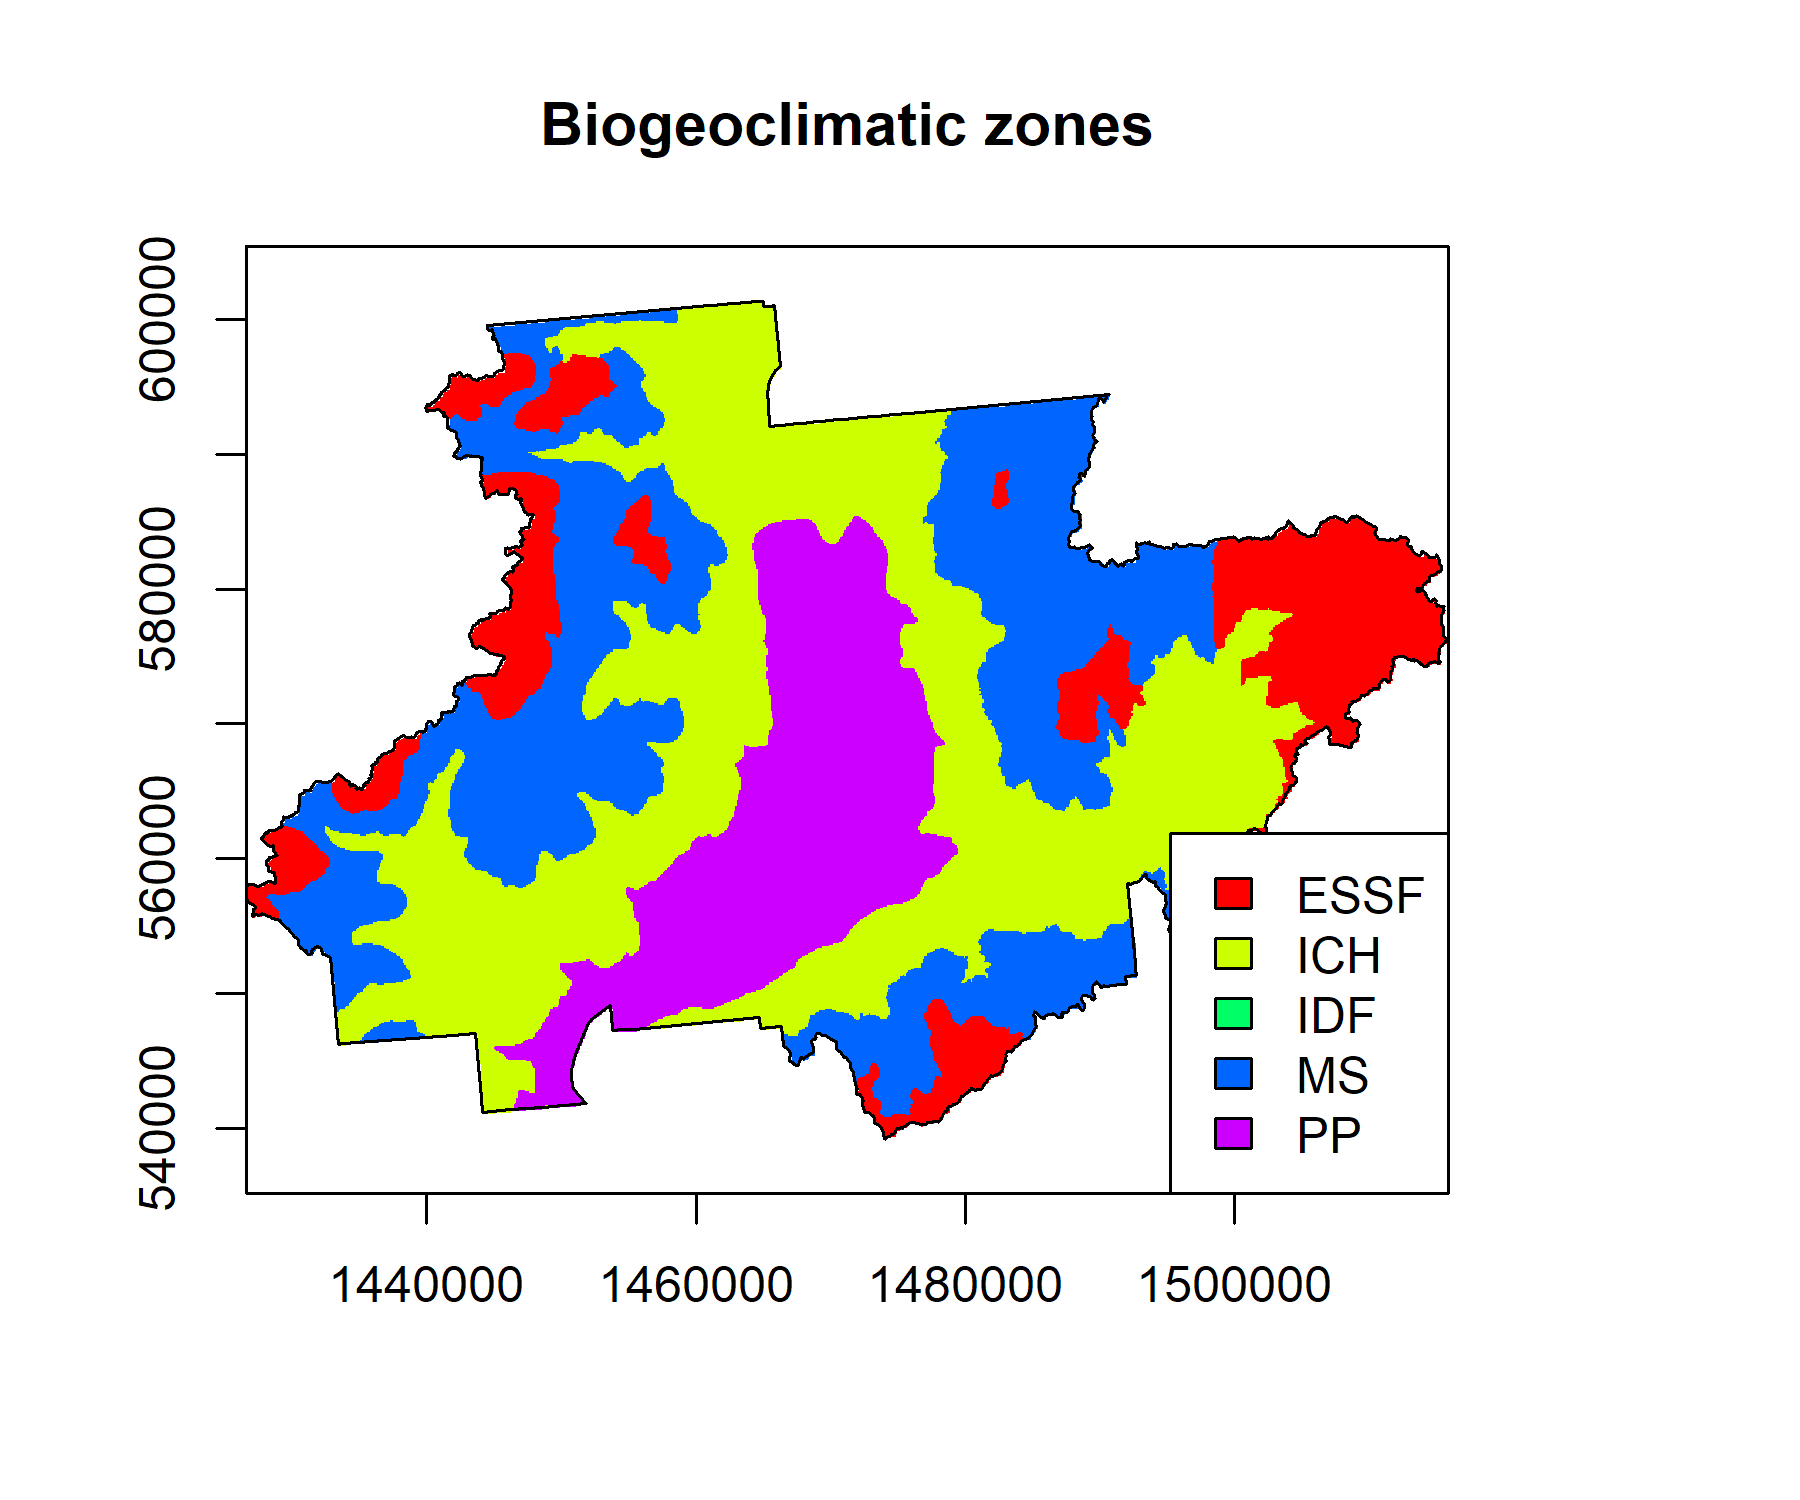
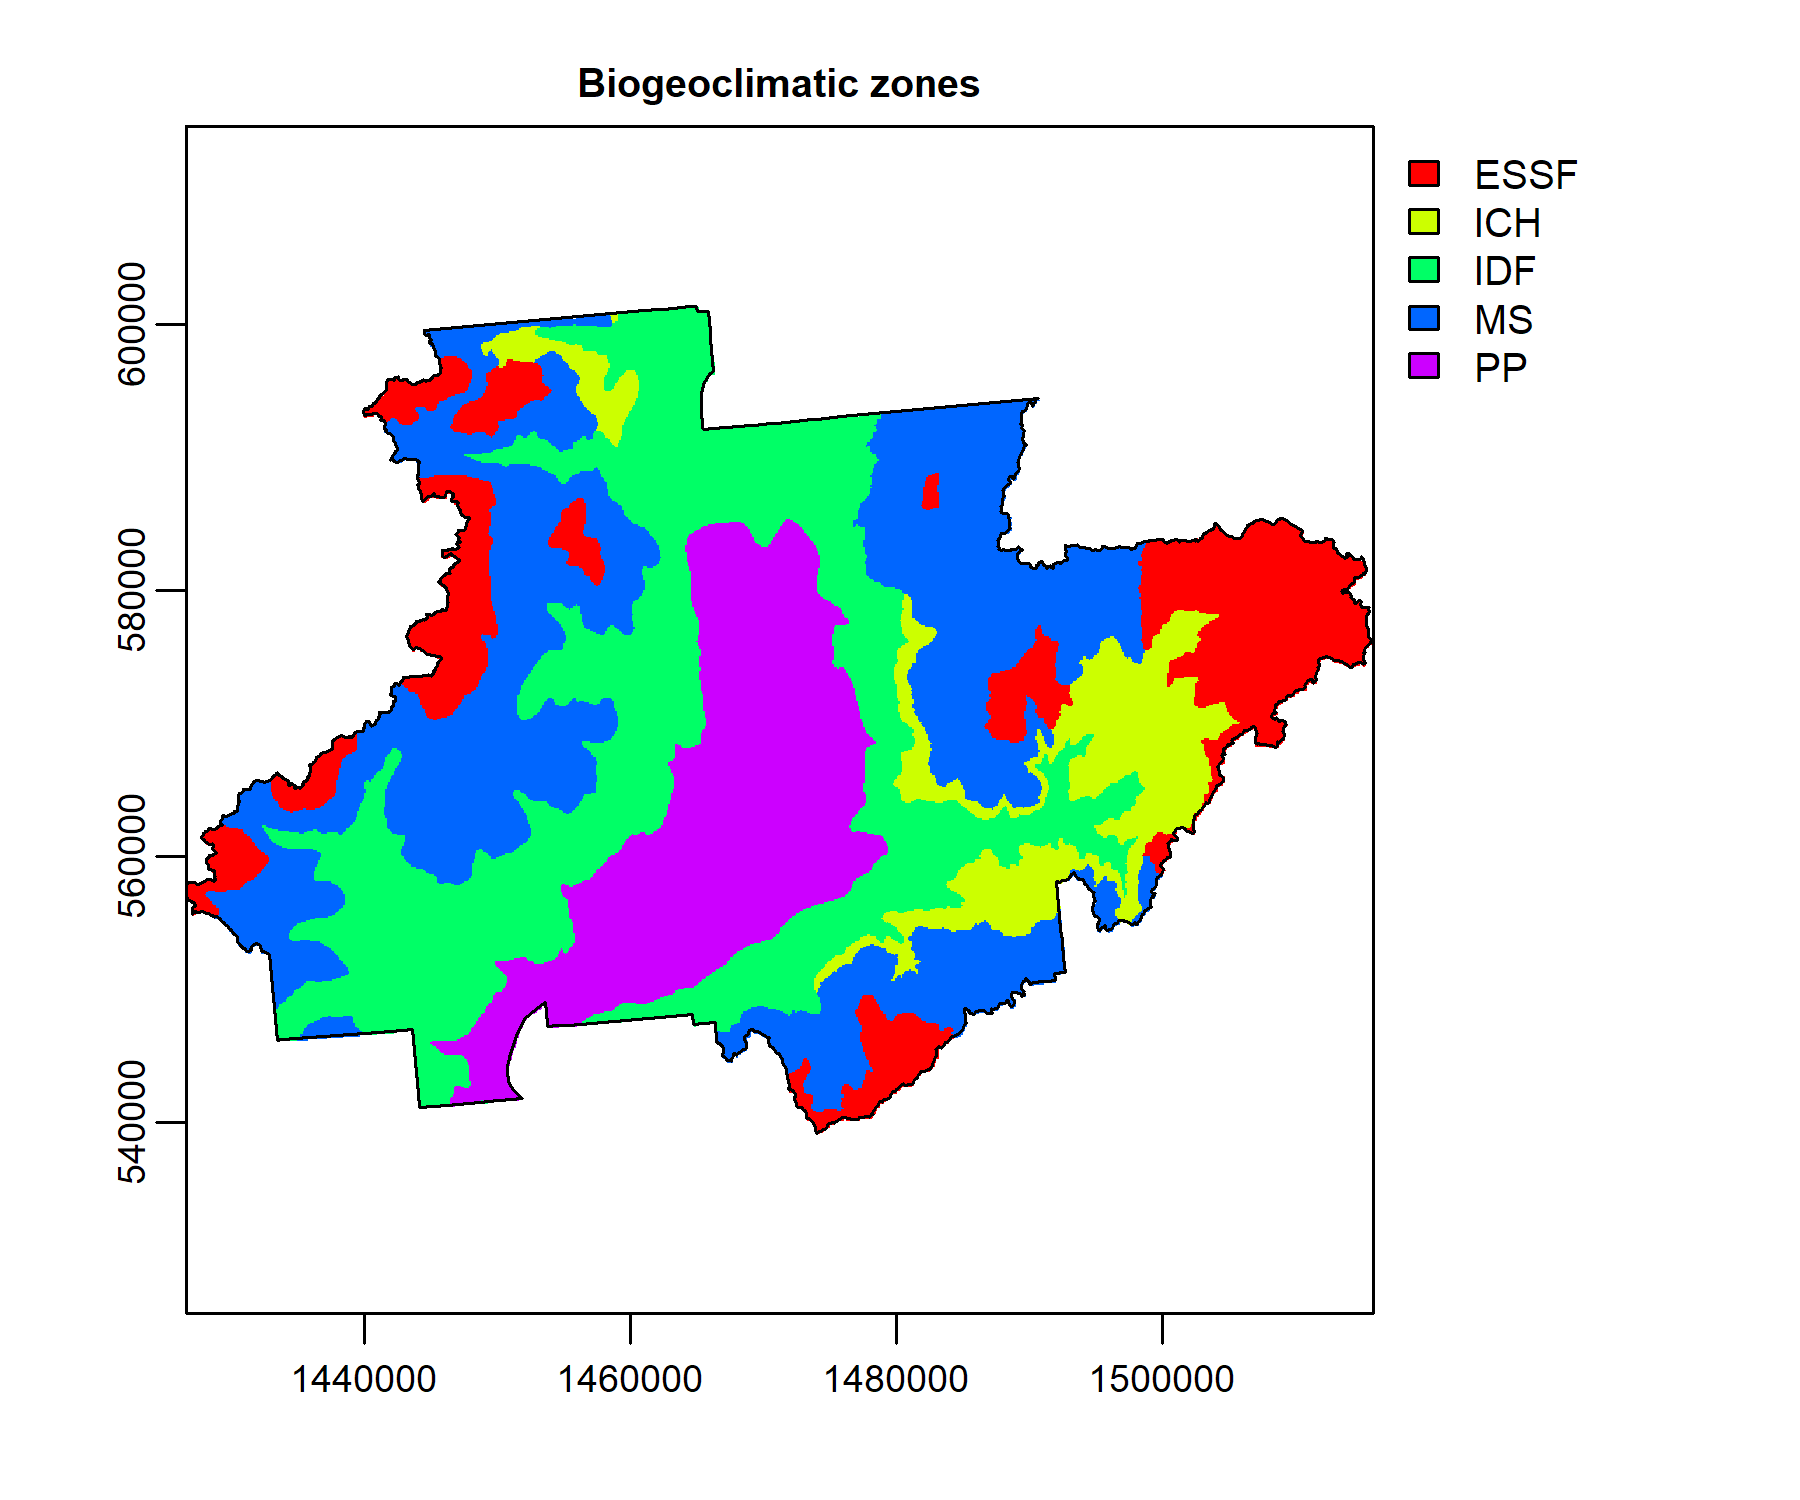
updated docs to reflect change to terra

diff --git a/vignette_intro.md b/vignette_intro.md
@@ -24,8 +24,8 @@ to define a study region (but it’s not a requirement of the package).
 ``` r
 library(sf)
 #> Linking to GEOS 3.9.1, GDAL 3.2.1, PROJ 7.2.1
-library(raster)
-#> Loading required package: sp
+library(terra)
+#> terra version 1.4.22
 library(bcmaps)
 library(rasterbc)
 ```
@@ -51,7 +51,7 @@ that `rasterbc` should write files to the supplied directory, and warn
 if this directory contains any existing files/folders. Note that if the
 storage directory has existing files with names matching those fetched
 by the `rasterbc` package, those data will be overwritten by calls of
-the form `raster::getdata_bc(..., force.dl=TRUE)` (the default is
+the form `getdata_bc(..., force.dl=TRUE)` (the default is
 `force.dl=FALSE`).
 
 In future sessions, users can set `quiet=TRUE` to skip the interactive
@@ -61,7 +61,7 @@ This path string is stored as an R option. View it using:
 
 ``` r
 datadir_bc()
-#> current data storage path: C:/Users/deank/AppData/Local/Temp/Rtmp6VWv6u/rasterbc_data
+#> current data storage path: C:/Users/deank/AppData/Local/Temp/RtmpOYLzGn/rasterbc_data
 ```
 
 Depending on the geographical extent of interest and the number
@@ -148,16 +148,16 @@ fetch them using the command:
 
 ``` r
 getdata_bc(geo=example.sf, collection='dem', varname='dem')
-#> [dem]:[dem] downloading 3 block(s) to: C:/Users/deank/AppData/Local/Temp/Rtmp6VWv6u/rasterbc_data/dem 
+#> [dem]:[dem] downloading 3 block(s) to: C:/Users/deank/AppData/Local/Temp/RtmpOYLzGn/rasterbc_data/dem 
 #>   |                                                                              |                                                                      |   0%  |                                                                              |=======================                                               |  33%
 #> downloading to: dem/blocks/dem_092H.tif 
 #>   |                                                                              |===============================================                       |  67%
 #> downloading to: dem/blocks/dem_082E.tif 
 #>   |                                                                              |======================================================================| 100%
 #> downloading to: dem/blocks/dem_082L.tif
-#> [1] "C:/Users/deank/AppData/Local/Temp/Rtmp6VWv6u/rasterbc_data/dem/blocks/dem_092H.tif"
-#> [2] "C:/Users/deank/AppData/Local/Temp/Rtmp6VWv6u/rasterbc_data/dem/blocks/dem_082E.tif"
-#> [3] "C:/Users/deank/AppData/Local/Temp/Rtmp6VWv6u/rasterbc_data/dem/blocks/dem_082L.tif"
+#> [1] "C:/Users/deank/AppData/Local/Temp/RtmpOYLzGn/rasterbc_data/dem/blocks/dem_092H.tif"
+#> [2] "C:/Users/deank/AppData/Local/Temp/RtmpOYLzGn/rasterbc_data/dem/blocks/dem_082E.tif"
+#> [3] "C:/Users/deank/AppData/Local/Temp/RtmpOYLzGn/rasterbc_data/dem/blocks/dem_082L.tif"
 ```
 
 You should see progress bars for a series of three downloads, and once
@@ -169,27 +169,28 @@ will be detected, and the download skipped. *eg.* repeat the call…
 ``` r
 getdata_bc(geo=example.sf, collection='dem', varname='dem')
 #> all 3 block(s) found in local data storage. Nothing to download
-#> [1] "C:/Users/deank/AppData/Local/Temp/Rtmp6VWv6u/rasterbc_data/dem/blocks/dem_092H.tif"
-#> [2] "C:/Users/deank/AppData/Local/Temp/Rtmp6VWv6u/rasterbc_data/dem/blocks/dem_082E.tif"
-#> [3] "C:/Users/deank/AppData/Local/Temp/Rtmp6VWv6u/rasterbc_data/dem/blocks/dem_082L.tif"
+#> [1] "C:/Users/deank/AppData/Local/Temp/RtmpOYLzGn/rasterbc_data/dem/blocks/dem_092H.tif"
+#> [2] "C:/Users/deank/AppData/Local/Temp/RtmpOYLzGn/rasterbc_data/dem/blocks/dem_082E.tif"
+#> [3] "C:/Users/deank/AppData/Local/Temp/RtmpOYLzGn/rasterbc_data/dem/blocks/dem_082L.tif"
 ```
 
 … and nothing happens, because the data are there already. Verify by
-loading one of the files as `RasterLayer`:
+loading one of the files as `SpatRaster`:
 
 ``` r
 tif.path = file.path(datadir_bc(), 'dem/blocks/dem_092H.tif')
-#> current data storage path: C:/Users/deank/AppData/Local/Temp/Rtmp6VWv6u/rasterbc_data
-example.raster = raster(tif.path)
+#> current data storage path: C:/Users/deank/AppData/Local/Temp/RtmpOYLzGn/rasterbc_data
+example.raster = terra::rast(tif.path)
 print(example.raster)
-#> class      : RasterLayer 
-#> dimensions : 1212, 1525, 1848300  (nrow, ncol, ncell)
-#> resolution : 100, 100  (x, y)
-#> extent     : 1286588, 1439088, 450888, 572088  (xmin, xmax, ymin, ymax)
-#> crs        : +proj=aea +lat_0=45 +lon_0=-126 +lat_1=50 +lat_2=58.5 +x_0=1000000 +y_0=0 +datum=NAD83 +units=m +no_defs 
-#> source     : dem_092H.tif 
-#> names      : dem_092H 
-#> values     : 7.653875, 2608.961  (min, max)
+#> class       : SpatRaster 
+#> dimensions  : 1212, 1525, 1  (nrow, ncol, nlyr)
+#> resolution  : 100, 100  (x, y)
+#> extent      : 1286588, 1439088, 450888, 572088  (xmin, xmax, ymin, ymax)
+#> coord. ref. : +proj=aea +lat_0=45 +lon_0=-126 +lat_1=50 +lat_2=58.5 +x_0=1000000 +y_0=0 +datum=NAD83 +units=m +no_defs 
+#> source      : dem_092H.tif 
+#> name        : dem_092H 
+#> min value   : 7.653875 
+#> max value   : 2608.961
 plot(example.raster, main='elevation (metres)')
 ```
 
@@ -201,21 +202,22 @@ To display the elevation data for the entire district, we need to
 combine the three blocks downloaded earlier. This can be done using
 `opendata_bc`, which loads all required blocks, merges them into a
 single layer, crops and masks as needed, and then loads into memory the
-returned `RasterLayer` object:
+returned `SpatRaster` object:
 
 ``` r
 example.tif = opendata_bc(example.sf, collection='dem', varname='dem')
 #> creating mosaic of 3 block(s)
 #> clipping layer...masking layer...done
 print(example.tif)
-#> class      : RasterLayer 
-#> dimensions : 622, 893, 555446  (nrow, ncol, ncell)
-#> resolution : 100, 100  (x, y)
-#> extent     : 1426588, 1515888, 539188, 601388  (xmin, xmax, ymin, ymax)
-#> crs        : +proj=aea +lat_0=45 +lon_0=-126 +lat_1=50 +lat_2=58.5 +x_0=1000000 +y_0=0 +datum=NAD83 +units=m +no_defs 
-#> source     : memory
-#> names      : dem 
-#> values     : 340.43, 2153.29  (min, max)
+#> class       : SpatRaster 
+#> dimensions  : 622, 893, 1  (nrow, ncol, nlyr)
+#> resolution  : 100, 100  (x, y)
+#> extent      : 1426588, 1515888, 539188, 601388  (xmin, xmax, ymin, ymax)
+#> coord. ref. : +proj=aea +lat_0=45 +lon_0=-126 +lat_1=50 +lat_2=58.5 +x_0=1000000 +y_0=0 +datum=NAD83 +units=m +no_defs 
+#> source      : memory 
+#> name        :     dem 
+#> min value   :  340.43 
+#> max value   : 2153.29
 plot(example.tif, main=paste(example.name, ': elevation'))
 plot(st_geometry(example.sf), add=TRUE)
 plot(st_geometry(blocks), add=TRUE, border='red')
@@ -237,20 +239,11 @@ defined by `sp`; or data frames containing coordinates of vertices) can
 often be coerced to `sf` using a command like
 `sf::st_as_sf(other_geometry_class_object)`. Alternatively, users can
 directly download individual blocks by specifying their NTS/SNRC codes,
-*eg.* the next chunk plots the “slope” variable (from the “dem”
-collection), specified using the codes:
+*eg.* the next chunk plots the DEM again, using the codes:
 
 ``` r
 example.codes = findblocks_bc(example.sf)
-example.tif = opendata_bc(example.codes, collection='dem', varname='slope')
-#> [dem]:[slope] downloading 3 block(s) to: C:/Users/deank/AppData/Local/Temp/Rtmp6VWv6u/rasterbc_data/dem 
-#>   |        ||   0%  |        ||  33%
-#> downloading to: dem/blocks/slope_092H.tif 
-#>   |        ||  67%
-#> downloading to: dem/blocks/slope_082E.tif 
-#>   |        || 100%
-#> downloading to: dem/blocks/slope_082L.tif 
-#> 
+example.tif = opendata_bc(example.codes, collection='dem', varname='dem')
 #> creating mosaic of 3 block(s)
 #> done
 plot(example.tif, main=paste('NTS/SNRC mapsheets ', paste(example.codes, collapse=', '), ': slope'))
@@ -289,19 +282,19 @@ layers. *eg.* in the ‘dem’ collection we also have ‘aspect’ and ‘slope
 listdata_bc(collection='dem', verbose=2)
 #>        year                        description                                  unit tiles
 #> dem      NA              digital elevation map              (metres above sea level)  3/89
-#> slope    NA derived from digital elevation map            (degrees above horizontal)  3/89
+#> slope    NA derived from digital elevation map            (degrees above horizontal)  0/89
 #> aspect   NA derived from digital elevation map (degrees counterclockwise from north)  0/89
 ```
 
-Notice the ‘slope’ blocks that were downloaded manually using NTS/SNRC
-codes. We merged these blocks earlier in the `opendata_bc` function call
-that created `example.tif`. Currently, this layer resides in memory and
-can be accessed via the R object `example.tif`. To save a copy, one can
-use the `raster::writeRaster` function:
+Notice the ‘dem’ blocks that were downloaded earlier. We merged these
+blocks in the `opendata_bc` function call that created `example.tif`.
+Currently, this layer resides in memory and can be accessed via the R
+object `example.tif`. To save a copy, one can use the
+`terra::writeRaster` function:
 
 ``` r
-slope.path = file.path(getOption('rasterbc.data.dir'), 'dem', 'example_slope.tif')
-writeRaster(example.tif, slope.path, overwrite=TRUE)
+dem.path = file.path(getOption('rasterbc.data.dir'), 'dem', 'example_dem.tif')
+terra::writeRaster(example.tif, dem.path, overwrite=TRUE)
 ```
 
 `getdata_bc` writes all of its data inside a ‘blocks’ subdirectory (in
@@ -311,15 +304,16 @@ left empty. So it is a good place to store and organize such derivative
 files, where they can be loaded more quickly (in future), *eg.*
 
 ``` r
-raster(slope.path)
-#> class      : RasterLayer 
-#> dimensions : 2459, 2983, 7335197  (nrow, ncol, ncell)
-#> resolution : 100, 100  (x, y)
-#> extent     : 1286588, 1584888, 450888, 696788  (xmin, xmax, ymin, ymax)
-#> crs        : +proj=aea +lat_0=45 +lon_0=-126 +lat_1=50 +lat_2=58.5 +x_0=1000000 +y_0=0 +datum=NAD83 +units=m +no_defs 
-#> source     : example_slope.tif 
-#> names      : example_slope 
-#> values     : 0, 67.20546  (min, max)
+terra::rast(dem.path)
+#> class       : SpatRaster 
+#> dimensions  : 2459, 2983, 1  (nrow, ncol, nlyr)
+#> resolution  : 100, 100  (x, y)
+#> extent      : 1286588, 1584888, 450888, 696788  (xmin, xmax, ymin, ymax)
+#> coord. ref. : +proj=aea +lat_0=45 +lon_0=-126 +lat_1=50 +lat_2=58.5 +x_0=1000000 +y_0=0 +datum=NAD83 +units=m +no_defs 
+#> source      : example_dem.tif 
+#> name        :      dem 
+#> min value   : 7.653875 
+#> max value   : 2918.951
 ```
 
 If you’re finished with `rasterbc` and want to remove all of the stored
@@ -332,9 +326,9 @@ other package functions.
 ### Integer codes
 
 Note that the `bgcz` collection data are factors, which are then encoded
-in the geotiff files as integer codes. `opendata_bc` returns these
-factor names in a raster attribute table for the `RasterLayer` object
-(column “code”). The complete lookup tables are also stored in the lazy
+in the geotiff files as integer codes. `opendata_bc` returns a
+plot-ready categorical raster in this case, with coded levels replaced
+by factor names. The complete lookup tables are also stored in the lazy
 loaded list object `metadata_bc`.
 
 ``` r
@@ -364,22 +358,15 @@ Bunchgrass, etc. See the documentation for the [bgcz source
 script](https://github.com/deankoch/rasterbc_src/blob/master/src_bgcz.knit.md)
 for links to a complete description of all codes.
 
-The code below plots this data for the example region, replacing in the
-legend the integer levels of the raster with the properly matched zone
-codes:
+The code below plots this data for the example region:
 
 ``` r
 # open the biogeoclimatic zone raster
 bgcz.raster = opendata_bc(geo=example.sf, collection='bgcz', varname='zone', quiet=TRUE)
 
-# a levels table (dataframe) can be extracted with `base::levels`
-bgcz.levels = levels(bgcz.raster)[[1]]
-
 # set up a colour palette and plot with legend defined manually
-bgcz.levels$color = rainbow(nrow(bgcz.levels))
-plot(bgcz.raster, legend=FALSE, col=bgcz.levels$color, main='Biogeoclimatic zones')
+plot(bgcz.raster, col=rainbow(5), main='Biogeoclimatic zones')
 plot(st_geometry(example.sf), add=TRUE)
-legend('bottomright', legend=bgcz.levels$code, fill=bgcz.levels$color)
 ```
 
 <img src="vignettes/man/figures/vignette_intro_okanagan_bgcz-1.png" width="100%" />
